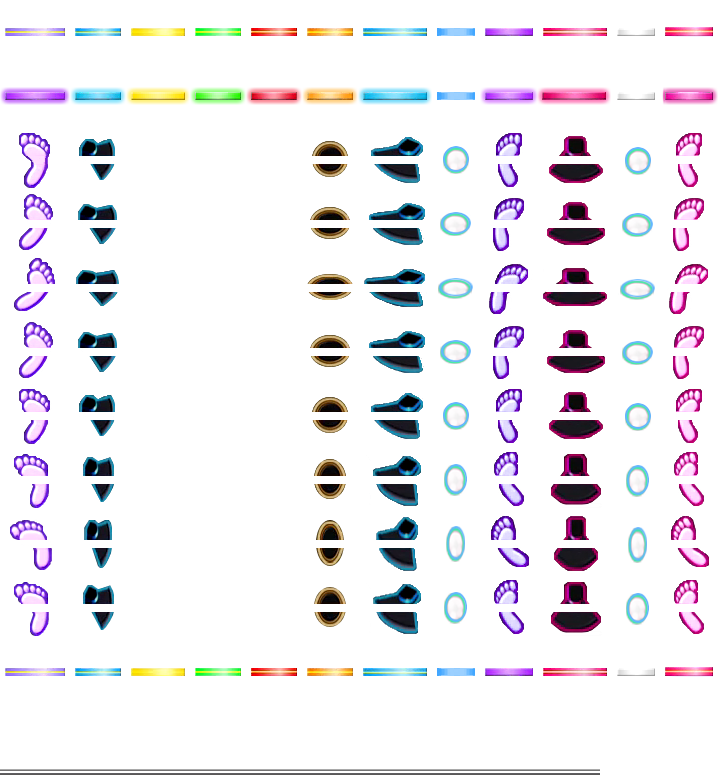
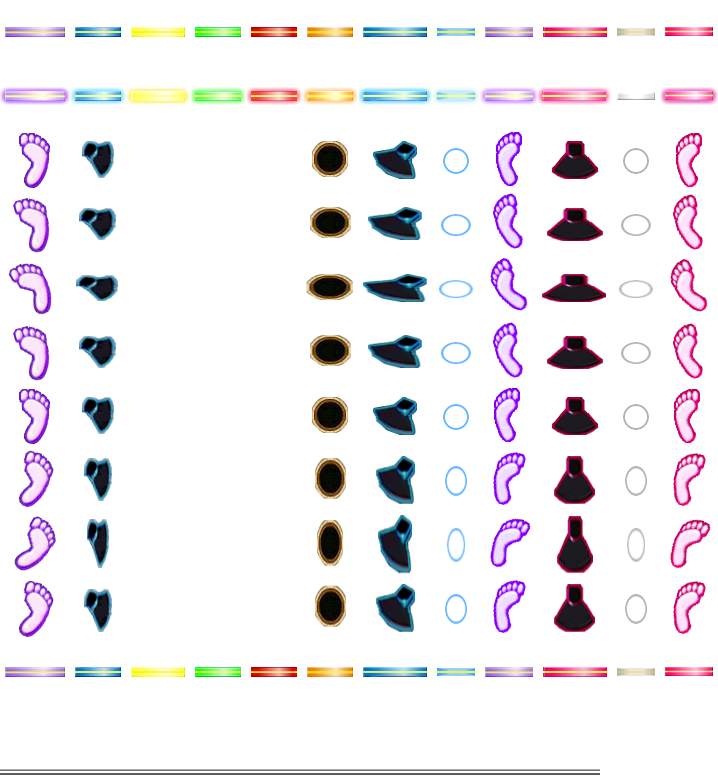
#xxxxx GD版にてr334に仮対応。

diff --git a/DTXManiaプロジェクト/コード/ステージ/07.演奏/ドラム画面/CStage演奏ドラム画面.cs b/DTXManiaプロジェクト/コード/ステージ/07.演奏/ドラム画面/CStage演奏ドラム画面.cs
@@ -3108,7 +3108,6 @@ namespace DTXMania
                             x = (x + 0x10) - ((int)((32.0 * pChip.dbチップサイズ倍率) / 2.0));
                             if (this.txチップ != null)
                             {
-                                //this.txチップ.t2D描画(CDTXMania.app.Device, x, y - 32, new Rectangle(60, 10 + (num9 * 64), 0x2e, 64));
                                 this.txチップ.t2D描画(CDTXMania.app.Device, x - 5, y - 32, new Rectangle(60 + 10, 0, 0x2e + 10, 64));
                             }
                             break;
@@ -3125,7 +3124,6 @@ namespace DTXMania
                             x = (x + 0x16) - ((int)((44.0 * pChip.dbチップサイズ倍率) / 2.0));
                             if (this.txチップ != null)
                             {
-                                //this.txチップ.t2D描画(CDTXMania.app.Device, x, y - 32, new Rectangle(0, 10 + (num9 * 0x40), 60, 0x40));
                                 this.txチップ.t2D描画(CDTXMania.app.Device, x - 5, y - 32, new Rectangle(0, 0, 60 + 10, 64));
                             }
                             break;
@@ -3150,7 +3148,6 @@ namespace DTXMania
                             x = (x + 19) - ((int)((38.0 * pChip.dbチップサイズ倍率) / 2.0));
                             if (this.txチップ != null)
                             {
-                                //this.txチップ.t2D描画(CDTXMania.app.Device, x, y - 32, new Rectangle(298, 10 + (num9 * 64), 64, 64));
                                 this.txチップ.t2D描画(CDTXMania.app.Device, x - 5, y - 32, new Rectangle(298 + 60, 0, 0x40 + 10, 64));
                             }
                             break;
@@ -3159,7 +3156,6 @@ namespace DTXMania
                             x = (x + 0x10) - ((int)((32.0 * pChip.dbチップサイズ倍率) / 2.0));
                             if (this.txチップ != null)
                             {
-                                //this.txチップ.t2D描画(CDTXMania.app.Device, x, y - 32, new Rectangle(0xfc, 10 + (num9 * 64), 0x2e, 0x40));
                                 this.txチップ.t2D描画(CDTXMania.app.Device, x - 5, y - 32, new Rectangle(0xfc + 50, 0, 0x2e + 10, 64));
                             }
                             break;
@@ -3172,7 +3168,6 @@ namespace DTXMania
                                 {
                                     case Eタイプ.A:
                                         x = (x + 14) - ((int)((26.0 * pChip.dbチップサイズ倍率) / 2.0));
-                                        //this.txチップ.t2D描画(CDTXMania.app.Device, x, y - 11, new Rectangle(0x200, 10, 0x26, 0x17));
                                         this.txチップ.t2D描画(CDTXMania.app.Device, x - 5, y - 32, new Rectangle(0x200 + 100, 0, 0x26 + 10, 64));
                                         break;
 
@@ -3183,7 +3178,6 @@ namespace DTXMania
 
                                     case Eタイプ.C:
                                         x = (x + 13) - ((int)((32.0 * pChip.dbチップサイズ倍率) / 2.0));
-                                        //this.txチップ.t2D描画(CDTXMania.app.Device, x, y - 32, new Rectangle(60, 10 + (num9 * 64), 0x2e, 64));
                                         this.txチップ.t2D描画(CDTXMania.app.Device, x - 5, y - 32, new Rectangle(60 + 10, 0, 0x2e + 10, 64));
                                         break;
                                 }
@@ -3194,7 +3188,6 @@ namespace DTXMania
                             x = (x + 13) - ((int)((26.0 * pChip.dbチップサイズ倍率) / 2.0));
                             if (this.txチップ != null)
                             {
-                                //this.txチップ.t2D描画(CDTXMania.app.Device, x, y - 0x20, new Rectangle(0x16a, 10 + (num9 * 64), 0x26, 0x40));
                                 this.txチップ.t2D描画(CDTXMania.app.Device, x - 5, y - 32, new Rectangle(0x16a + 70, 0, 0x26 + 10, 64));
                             }
                             break;
@@ -3203,7 +3196,6 @@ namespace DTXMania
                             x = (x + 0x13) - ((int)((38.0 * pChip.dbチップサイズ倍率) / 2.0));
                             if (this.txチップ != null)
                             {
-                                //this.txチップ.t2D描画(CDTXMania.app.Device, x, y - 32, new Rectangle(448, 10 + (num9 * 64), 64, 64));
                                 this.txチップ.t2D描画(CDTXMania.app.Device, x - 5, y - 32, new Rectangle(448 + 90, 0, 64 + 10, 64));
                             }
                             break;
@@ -3212,7 +3204,6 @@ namespace DTXMania
                             x = (x + 0x13) - ((int)((38.0 * pChip.dbチップサイズ倍率) / 2.0));
                             if (this.txチップ != null)
                             {
-                                //this.txチップ.t2D描画(CDTXMania.app.Device, x, y - 0x20, new Rectangle(550, 10 + (num9 * 64), 0x30, 0x40));
                                 this.txチップ.t2D描画(CDTXMania.app.Device, x - 5, y - 32, new Rectangle(550 + 110, 0, 0x30 + 10, 64));
                             }
                             break;
@@ -3221,15 +3212,12 @@ namespace DTXMania
                             x = (x + 0x13) - ((int)((38.0 * pChip.dbチップサイズ倍率) / 2.0));
                             if (this.txチップ != null)
                             {
-
                                 if (configIni.eLBDGraphics.Drums == Eタイプ.A)
                                 {
-                                    //this.txチップ.t2D描画(CDTXMania.app.Device, x, y - 0x20, new Rectangle(550, 10 + (num9 * 64), 0x30, 0x40));
                                     this.txチップ.t2D描画(CDTXMania.app.Device, x - 5, y - 32, new Rectangle(550 + 110, 0, 0x30 + 10, 64));
                                 }
                                 else if (configIni.eLBDGraphics.Drums == Eタイプ.B)
                                 {
-                                    //this.txチップ.t2D描画(CDTXMania.app.Device, x, y - 0x20, new Rectangle(400, 10 + (num9 * 64), 0x30, 0x40));
                                     this.txチップ.t2D描画(CDTXMania.app.Device, x - 5, y - 32, new Rectangle(400 + 80, 0, 0x30 + 10, 64));
                                 }
                             }
